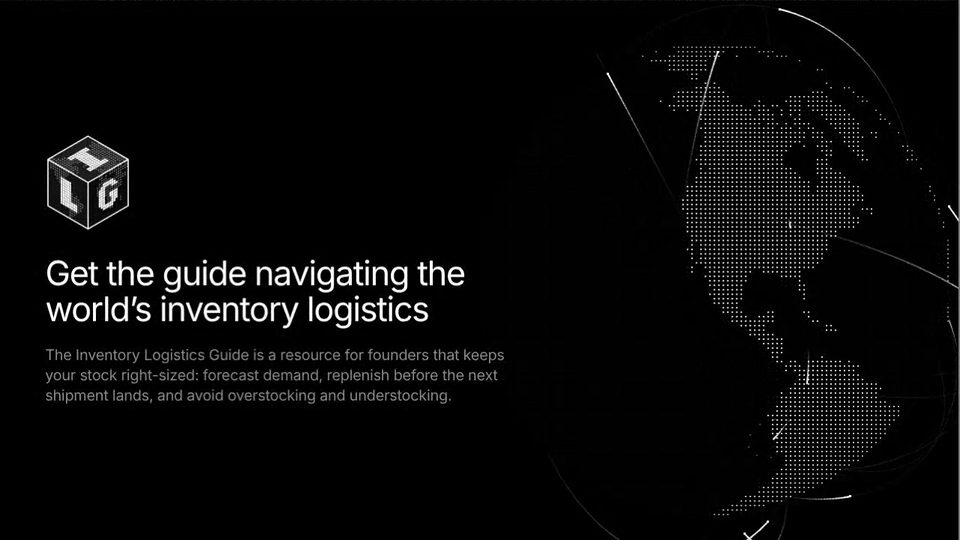
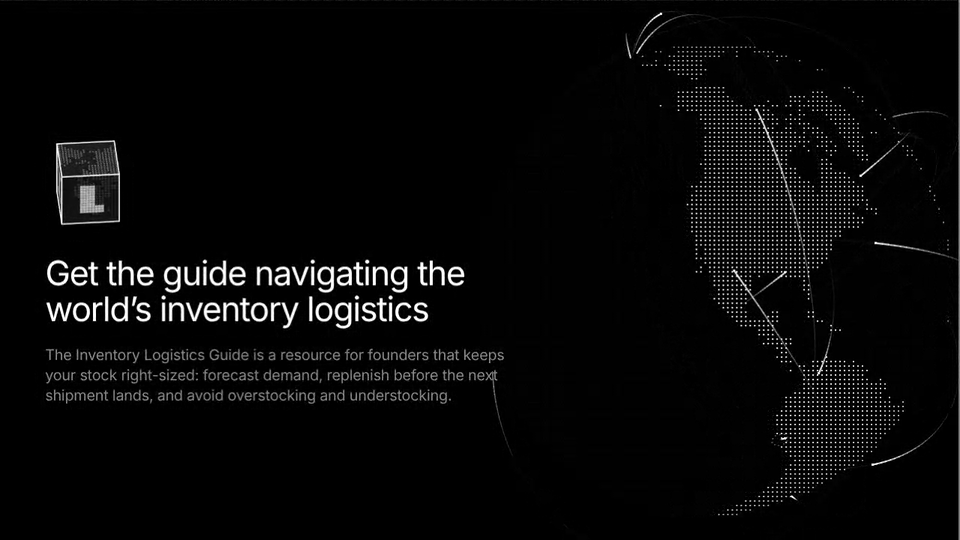
ILG Pixel Globe: slowly rotating 3D cube, letters cut into the lit side faces
Claude-Session: https://claude.ai/code/session_01AHeBdyZwDopNFk9zfrWTHL

diff --git a/ilg-pixel-globe/index.html b/ilg-pixel-globe/index.html
@@ -205,56 +205,60 @@ const LET={
  L:[".#####...",".#####...",".#####...",".#####...",".#####...",".#####...",".#####...",".#####...",".########",".########",".########"],
  G:["..#####..",".#######.","###...###","###......","###......","###..####","###..####","###...###","###...###",".#######.","..#####.."]
 };
-function drawLogo(){
-  const L=document.getElementById('logo'),r=L.getBoundingClientRect(),dp=Math.min(3,(window.devicePixelRatio||1)*1.5);
-  L.width=Math.round(r.width*dp);L.height=Math.round(r.height*dp);
-  const c=L.getContext('2d');c.setTransform(dp,0,0,dp,0,0);c.clearRect(0,0,r.width,r.height);
-  const th=Math.PI/4,ph=Math.atan(1/Math.SQRT2),ct=Math.cos(th),st=Math.sin(th),cp=Math.cos(ph),sp=Math.sin(ph);
-  const prj=(x,y,z)=>{const xr=x*ct-z*st,zr=x*st+z*ct;return [xr,-(y*cp-zr*sp)]};
-  const ext=[];for(const x of[-1,1])for(const y of[-1,1])for(const z of[-1,1])ext.push(prj(x,y,z));
-  const minx=Math.min(...ext.map(e=>e[0])),maxx=Math.max(...ext.map(e=>e[0])),miny=Math.min(...ext.map(e=>e[1])),maxy=Math.max(...ext.map(e=>e[1]));
-  const pad=2,k=Math.min((r.width-pad*2)/(maxx-minx),(r.height-pad*2)/(maxy-miny));
-  const ox=r.width/2-(minx+maxx)/2*k,oy=r.height/2-(miny+maxy)/2*k;
-  const P=(x,y,z)=>{const q=prj(x,y,z);return [ox+q[0]*k,oy+q[1]*k]};
-  const N=19,SH=-75;
-  const faces=[
-    {O:[-1,1,1],U:[0,0,-2],V:[2,0,0],tone:'#1d1d1d',ch:'I'},   /* top */
-    {O:[-1,1,1],U:[2,0,0],V:[0,-2,0],tone:'#121212',ch:'L'},   /* left */
-    {O:[1,1,1],U:[0,0,-2],V:[0,-2,0],tone:'#0a0a0a',ch:'G'}   /* right */
-  ];
-  for(const f of faces){
-    const at=(u,v)=>[f.O[0]+f.U[0]*u+f.V[0]*v,f.O[1]+f.U[1]*u+f.V[1]*v,f.O[2]+f.U[2]*u+f.V[2]*v];
-    const quad=(i,j,sh)=>{const a=sh,b=1-sh;return [at((i+a)/N,(j+a)/N),at((i+b)/N,(j+a)/N),at((i+b)/N,(j+b)/N),at((i+a)/N,(j+b)/N)].map(p=>P(p[0],p[1],p[2]))};
-    /* face base */
-    const base=[at(0,0),at(1,0),at(1,1),at(0,1)].map(p=>P(p[0],p[1],p[2]));
-    c.fillStyle=f.tone;c.beginPath();base.forEach((p,i)=>i?c.lineTo(p[0],p[1]):c.moveTo(p[0],p[1]));c.closePath();c.fill();
-    const bm=LET[f.ch],i0=5,j0=4;
-    for(let j=0;j<N;j++)for(let i=0;i<N;i++){
-      const bi=i-i0,bj=j-j0,onL=bi>=0&&bi<9&&bj>=0&&bj<11&&bm[bj][bi]==='#';
-      const cc=at((i+.5)/N,(j+.5)/N),m=Math.hypot(cc[0],cc[1],cc[2]);
-      const lat=Math.asin(cc[1]/m)/D,lon=Math.atan2(cc[0],cc[2])/D+SH;
-      const ld=land(lat,lon);
-      let q;
-      if(onL){c.fillStyle='#fff';q=quad(i,j,.04)}
-      else if(ld){c.fillStyle='rgba(255,255,255,.4)';q=quad(i,j,.2)}
-      else{c.fillStyle='rgba(255,255,255,.09)';q=quad(i,j,.38)}
-      c.beginPath();q.forEach((p,n)=>n?c.lineTo(p[0],p[1]):c.moveTo(p[0],p[1]));c.closePath();c.fill();
-    }
+const LN=19,LSH=-75;
+/* five faces in cube space: letters are cut into the surface of the four sides, the top is pure world */
+const LF=[
+  {O:[-1,1,1],U:[0,0,-2],V:[2,0,0],n:[0,1,0],ch:null},
+  {O:[-1,1,1],U:[2,0,0],V:[0,-2,0],n:[0,0,1],ch:'I'},
+  {O:[1,1,1],U:[0,0,-2],V:[0,-2,0],n:[1,0,0],ch:'L'},
+  {O:[1,1,-1],U:[-2,0,0],V:[0,-2,0],n:[0,0,-1],ch:'G'},
+  {O:[-1,1,-1],U:[0,0,2],V:[0,-2,0],n:[-1,0,0],ch:null}
+];
+const at3=(f,u,v)=>[f.O[0]+f.U[0]*u+f.V[0]*v,f.O[1]+f.U[1]*u+f.V[1]*v,f.O[2]+f.U[2]*u+f.V[2]*v];
+for(const f of LF){
+  f.cells=[];const bm=f.ch&&LET[f.ch];
+  for(let j=0;j<LN;j++)for(let i=0;i<LN;i++){
+    const bi=i-5,bj=j-4,isL=!!bm&&bi>=0&&bi<9&&bj>=0&&bj<11&&bm[bj][bi]==='#';
+    const c=at3(f,(i+.5)/LN,(j+.5)/LN),m=Math.hypot(c[0],c[1],c[2]);
+    f.cells.push({i,j,t:isL?2:(land(Math.asin(c[1]/m)/D,Math.atan2(c[0],c[2])/D+LSH)?1:0)});
   }
-  /* cube edges */
-  c.strokeStyle='#fff';c.lineWidth=1.6;c.lineJoin='miter';
-  const V=(x,y,z)=>P(x,y,z);
-  const path=(pts)=>{c.beginPath();pts.forEach((p,i)=>i?c.lineTo(p[0],p[1]):c.moveTo(p[0],p[1]));c.stroke()};
-  path([V(-1,1,-1),V(1,1,-1),V(1,-1,-1),V(1,-1,1),V(-1,-1,1),V(-1,1,-1)].slice(0,0));
-  const hex=[V(-1,1,-1),V(1,1,-1),V(1,-1,-1),V(1,-1,1),V(-1,-1,1),V(-1,1,1)];
-  c.beginPath();hex.forEach((p,i)=>i?c.lineTo(p[0],p[1]):c.moveTo(p[0],p[1]));c.closePath();c.stroke();
-  path([V(-1,1,1),V(1,1,1),V(1,-1,1)]);path([V(1,1,-1),V(1,1,1)]);path([V(-1,1,1),V(-1,-1,1)].slice(0,0));
 }
-
-resize();setView();drawLogo();addEventListener("resize",drawLogo);
+const LGT=(()=>{const l=[-.5,.8,.35],m=Math.hypot(...l);return l.map(x=>x/m)})();
+let lgW=0,lgH=0,lgDp=1;
+function sizeLogo(){
+  const L=document.getElementById('logo'),r=L.getBoundingClientRect();
+  lgDp=Math.min(3,(window.devicePixelRatio||1)*1.5);lgW=r.width;lgH=r.height;
+  L.width=Math.round(lgW*lgDp);L.height=Math.round(lgH*lgDp);
+}
+function drawLogo(rot){
+  const L=document.getElementById('logo'),c=L.getContext('2d');
+  c.setTransform(lgDp,0,0,lgDp,0,0);c.clearRect(0,0,lgW,lgH);
+  const th=Math.PI/4+rot*D,ph=Math.atan(1/Math.SQRT2),ct=Math.cos(th),st=Math.sin(th),cp=Math.cos(ph),sp=Math.sin(ph);
+  const prj=(x,y,z)=>{const xr=x*ct-z*st,zr=x*st+z*ct;return [xr,-(y*cp-zr*sp)]};
+  /* fixed scale from the cube's largest extent so it does not pulse while it turns */
+  const k=Math.min((lgW-4)/(2*Math.SQRT2),(lgH-4)/(2*(cp+sp*1)+0.0001)*1.0)*.98,ox=lgW/2,oy=lgH/2;
+  const P=(x,y,z)=>{const q=prj(x,y,z);return [ox+q[0]*k,oy+q[1]*k*1+0]};
+  for(const f of LF){
+    const nx=f.n[0],ny=f.n[1],nz=f.n[2],xr=nx*ct-nz*st,zr=nx*st+nz*ct;
+    if(ny*sp+zr*cp<=.001)continue;                       /* back face */
+    const sh=.4+.6*Math.max(0,xr*LGT[0]+(ny*cp-zr*sp)*LGT[1]+(ny*sp+zr*cp)*LGT[2]);
+    const quad=(i,j,s)=>{const a=s,b=1-s;return [at3(f,(i+a)/LN,(j+a)/LN),at3(f,(i+b)/LN,(j+a)/LN),at3(f,(i+b)/LN,(j+b)/LN),at3(f,(i+a)/LN,(j+b)/LN)].map(p=>P(p[0],p[1],p[2]))};
+    const poly=(q)=>{c.beginPath();q.forEach((p,n)=>n?c.lineTo(p[0],p[1]):c.moveTo(p[0],p[1]));c.closePath()};
+    const base=[at3(f,0,0),at3(f,1,0),at3(f,1,1),at3(f,0,1)].map(p=>P(p[0],p[1],p[2]));
+    const g8=Math.round(10+22*sh);c.fillStyle='rgb('+g8+','+g8+','+g8+')';poly(base);c.fill();
+    for(const e of f.cells){
+      if(e.t===2){c.fillStyle='rgba(255,255,255,'+(.5+.5*sh).toFixed(3)+')';poly(quad(e.i,e.j,.03))}
+      else if(e.t===1){c.fillStyle='rgba(255,255,255,'+(.42*sh).toFixed(3)+')';poly(quad(e.i,e.j,.2))}
+      else{c.fillStyle='rgba(255,255,255,'+(.1*sh).toFixed(3)+')';poly(quad(e.i,e.j,.38))}
+      c.fill();
+    }
+    c.strokeStyle='#fff';c.lineWidth=1.6;c.lineJoin='miter';poly(base);c.stroke();
+  }
+}
+resize();setView();sizeLogo();drawLogo(0);addEventListener("resize",()=>{sizeLogo();drawLogo(0)});
 for(let i=0;i<150;i++){step(1/30);lon0-=SPEED/30}        /* start with orders already in flight */
 if(reduce){frame(0)}
-else{let last=performance.now();const loop=(t)=>{const dt=Math.min(.05,(t-last)/1000);last=t;step(dt);frame(dt);requestAnimationFrame(loop)};requestAnimationFrame(loop)}
+else{let last=performance.now(),spin=0;const loop=(t)=>{const dt=Math.min(.05,(t-last)/1000);last=t;step(dt);frame(dt);spin+=14*dt;drawLogo(spin);requestAnimationFrame(loop)};requestAnimationFrame(loop)}
 })();
 </script>
 </body>
